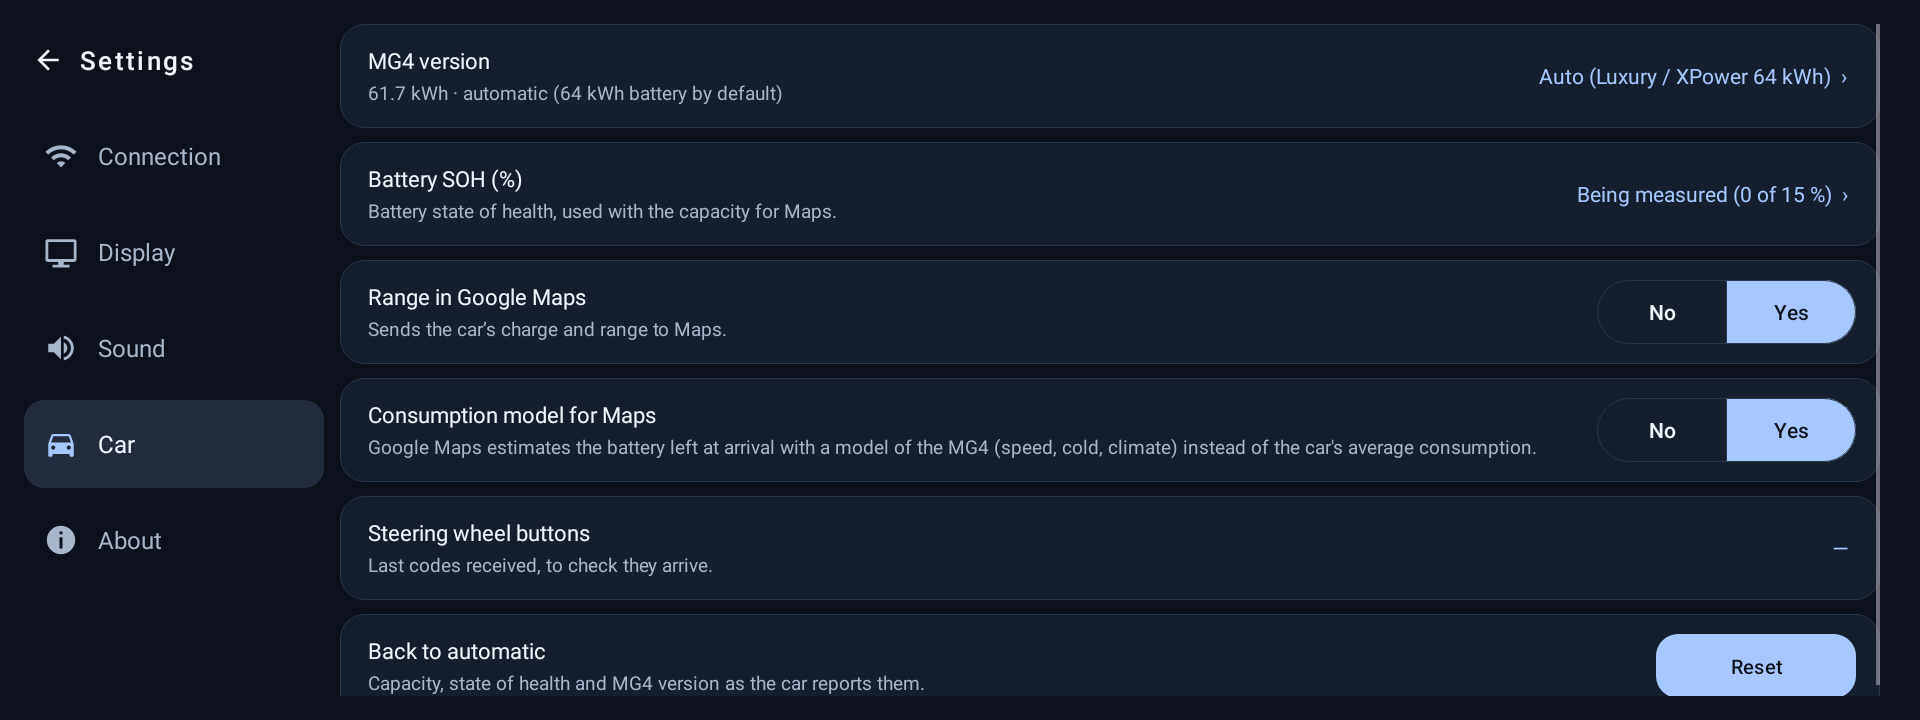
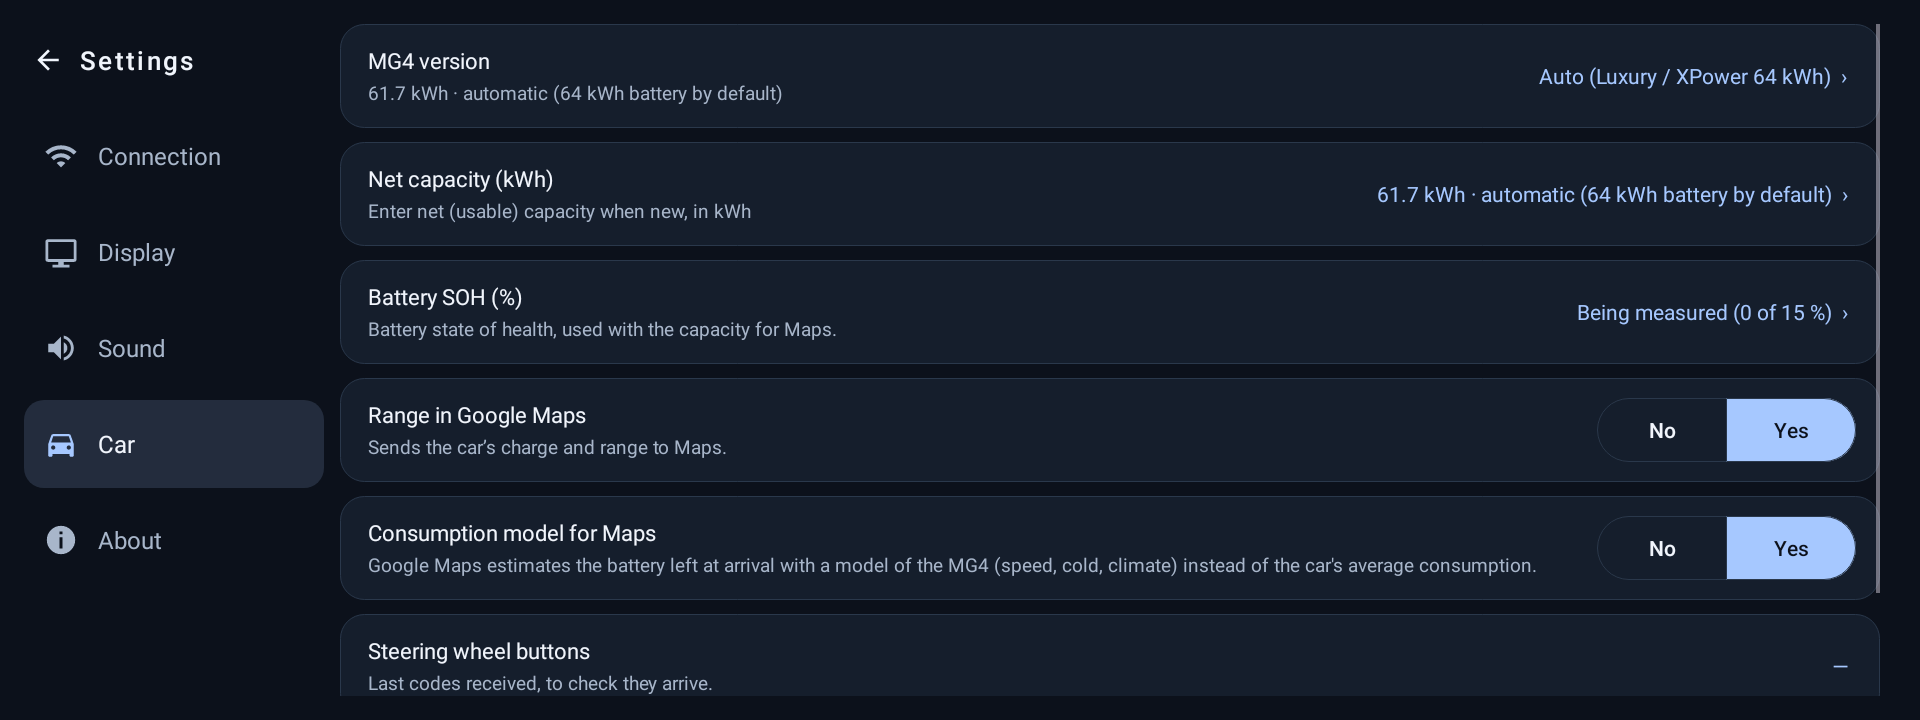
Usable capacity can be set by hand in Settings > Car; the Maps model keeps its 30 s refresh

diff --git a/app/src/main/java/com/andrerinas/openheadunit/main/DaSettingsActivity.kt b/app/src/main/java/com/andrerinas/openheadunit/main/DaSettingsActivity.kt
@@ -249,6 +249,8 @@ class DaSettingsActivity : BaseActivity() {
         // One choice for both: the version gives Maps its usable capacity and its charging curve.
         rowText(getString(R.string.dset_variant), batteryCapacityText(this, battery),
             value(variantLabel(battery)) { pickVariant() })
+        rowText(getString(R.string.battery_net_capacity_kwh), getString(R.string.battery_net_capacity_enter),
+            value(batteryCapacityText(this, battery)) { editCapacity(battery.netKwh) })
         rowText(getString(R.string.battery_soh_percent), getString(R.string.dset_soh_summary),
             value(batterySohText(this, battery)) { editSoh(battery.sohPercent) })
         com.andrerinas.openheadunit.vehicle.Mg4EnergyProvider.snapshot()?.takeIf { !it.demo }?.let { snap ->
@@ -387,6 +389,39 @@ class DaSettingsActivity : BaseActivity() {
             .setItems(EV_LAYOUT_LABELS.map { getString(it) }.toTypedArray()) { _, i ->
                 settings.evModelLayout = layouts[i].key
                 appliesOnReconnect()
+                showTab(selectedTab)
+            }
+            .setNegativeButton(R.string.cancel, null)
+            .show()
+    }
+
+    private fun editCapacity(current: Float) {
+        val input = android.widget.EditText(this).apply {
+            inputType = android.text.InputType.TYPE_CLASS_NUMBER or android.text.InputType.TYPE_NUMBER_FLAG_DECIMAL
+            setText(String.format(java.util.Locale.getDefault(), "%.1f", current))
+            textSize = 30f
+            setSelectAllOnFocus(true)
+            minWidth = dp(320)
+        }
+        val box = FrameLayout(this).apply {
+            setPadding(dp(32), dp(16), dp(32), dp(8))
+            addView(input)
+        }
+        MaterialAlertDialogBuilder(this, R.style.DarkAlertDialog)
+            .setTitle(R.string.battery_net_capacity_kwh)
+            .setView(box)
+            .setPositiveButton(android.R.string.ok) { _, _ ->
+                input.text.toString().replace(',', '.').toFloatOrNull()?.let {
+                    settings.batteryNetCapacityKwh = it.coerceIn(20f, 120f)
+                    settings.batteryCapacityManual = true
+                    com.andrerinas.openheadunit.vehicle.Mg4EnergyProvider.refresh()
+                }
+                showTab(selectedTab)
+            }
+            .setNeutralButton(R.string.battery_auto) { _, _ ->
+                settings.batteryCapacityManual = false
+                settings.mg4Variant = com.andrerinas.openheadunit.vehicle.Mg4Variant.AUTO
+                com.andrerinas.openheadunit.vehicle.Mg4EnergyProvider.refresh()
                 showTab(selectedTab)
             }
             .setNegativeButton(R.string.cancel, null)

diff --git a/app/src/main/java/com/andrerinas/openheadunit/vehicle/Mg4EnergyReporter.kt b/app/src/main/java/com/andrerinas/openheadunit/vehicle/Mg4EnergyReporter.kt
@@ -20,12 +20,10 @@ import java.util.concurrent.atomic.AtomicReference
 object Mg4EnergyReporter {
     private const val TAG = "DiAuto-MG4"
     private const val INTERVAL_MS = 30_000L
-    private const val CLIMATE_CHECK_MS = 3_000L
 
     /** Outside temperature last put in DiAuto's model (see [Mg4MapsEnergyModel.heldTemp]). */
     @Volatile private var heldTemp: Float? = null
     @Volatile private var lastModel: Mg4MapsEnergyModel.Model? = null
-    private var lastClimateCheck = 0L
 
     private val requestedTypes = ConcurrentHashMap.newKeySet<Int>()
     private val vemEverSent = AtomicBoolean(false)
@@ -75,21 +73,6 @@ object Mg4EnergyReporter {
         }
     }
 
-    /**
-     * The climate was switched on or off since the last model sent: its power is part of the model,
-     * so it goes out at once instead of at the next 30 s send. Read every few seconds only.
-     */
-    private fun climateChanged(): Boolean {
-        val model = lastModel ?: return false
-        val now = SystemClock.elapsedRealtime()
-        if (now - lastClimateCheck < CLIMATE_CHECK_MS) return false
-        lastClimateCheck = now
-        val climate = runCatching { com.evsuite.hardware.saic.SaicClimate.powerOn() }.getOrNull() ?: return false
-        if (Mg4MapsEnergyModel.test.climateOn != null || climate == model.climateOn) return false
-        AppLog.i("$TAG climate switched ${if (climate) "on" else "off"}: model sent again")
-        return true
-    }
-
     /** For the debug overlay: the last model sent against the battery's real power. */
     private fun sampleDebugTrip() {
         val settings = App.instance?.let { App.provide(it).settings } ?: return
@@ -109,10 +92,6 @@ object Mg4EnergyReporter {
     private fun tick() {
         sampleDebugTrip()
         if (requestedTypes.isEmpty()) return
-        if (climateChanged()) {
-            sendNow(force = true)
-            return
-        }
         val due = SystemClock.elapsedRealtime() - lastSentElapsed >= INTERVAL_MS
         if (due || !vemEverSent.get()) sendNow(force = !vemEverSent.get())
     }

diff --git a/README.md b/README.md
@@ -67,10 +67,11 @@ internet over Bluetooth is not possible on the MG4: its Bluetooth stack has no n
 - The battery version comes from the car when it reports it, otherwise from your choice in
   *Settings → Car* (64 kWh by default, and Comfort can only be chosen by hand). The state of health
   is measured while you drive, after about 15 % of charge used: until then the setting shows it as
-  being measured, and Maps is told 95 %. Each can be changed, with a button to go back to automatic.
+  being measured, and Maps is told 95 %. The usable capacity and the state of health can also be set
+  by hand, with a button to go back to automatic.
 - **Consumption model for Maps (on by default):** instead of the car's average consumption, Maps gets
-  a description of the car: rolling and air resistance, outside temperature and climate power, sent
-  again as soon as the climate is switched on or off. Google's servers then work out each part of
+  a description of the car: rolling and air resistance, outside temperature and climate power,
+  refreshed every 30 s. Google's servers then work out each part of
   the route with the expected speed, traffic and climb. The figures are estimates. To go back to the
   car's average consumption, turn it off in *Settings → Car*.
 - **Battery preheating before a charging stop** (off by default): when the next stop on the Maps
